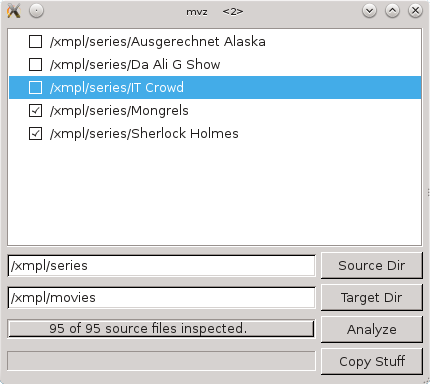
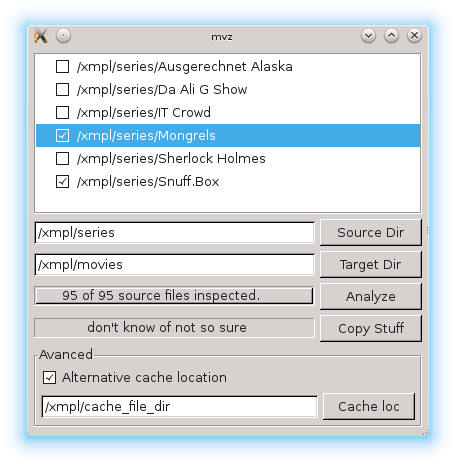
updated readme and screenshots

diff --git a/src/main/java/nu/wasis/mvz/gui/MainWindow.java b/src/main/java/nu/wasis/mvz/gui/MainWindow.java
@@ -53,6 +53,8 @@ public class MainWindow {
 	private Button btnCacheLoc;
 
 	private Button btnAlternativeCacheLocation;
+
+	private Group grpAvanced;
 	
 	/**
 	 * @wbp.parser.entryPoint
@@ -202,7 +204,7 @@ public class MainWindow {
 		});
 		btnCopy.setText("Copy Stuff");
 		
-		Group grpAvanced = new Group(shell, SWT.NONE);
+		grpAvanced = new Group(shell, SWT.NONE);
 		GridLayout gl_grpAvanced = new GridLayout(2, false);
 		gl_grpAvanced.marginBottom = 5;
 		grpAvanced.setLayout(gl_grpAvanced);
@@ -248,10 +250,16 @@ public class MainWindow {
 		for (Control control : this.shell.getChildren()) {
 			control.setEnabled(false);
 		}
+		for (Control control : grpAvanced.getChildren()) {
+			control.setEnabled(false);
+		}
 	}
 	
 	private void enableAll() {
 		for (Control control : this.shell.getChildren()) {
+			control.setEnabled(true);
+		}
+		for (Control control : grpAvanced.getChildren()) {
 			control.setEnabled(true);
 		}
 	}

diff --git a/README.md b/README.md
@@ -7,11 +7,13 @@ what files/dirs you want to get copied and let mvz handle it for you.
 
 usage
 =====
-    [no param] Start GUI
-    -h         [Optional] Print help and exit.
-    -i         Ignore cache file in target directory.
-    -s <arg>   Source directory.
-    -t <arg>   Target directory.
+usage: mvz
+ -c <arg>   Cache file to use (defaults to cache file in target
+            directory).
+ -h         [Optional] Print help and exit.
+ -i         Ignore cache file in target directory.
+ -s <arg>   Source directory.
+ -t <arg>   Target directory.
 
 outcome
 =======
